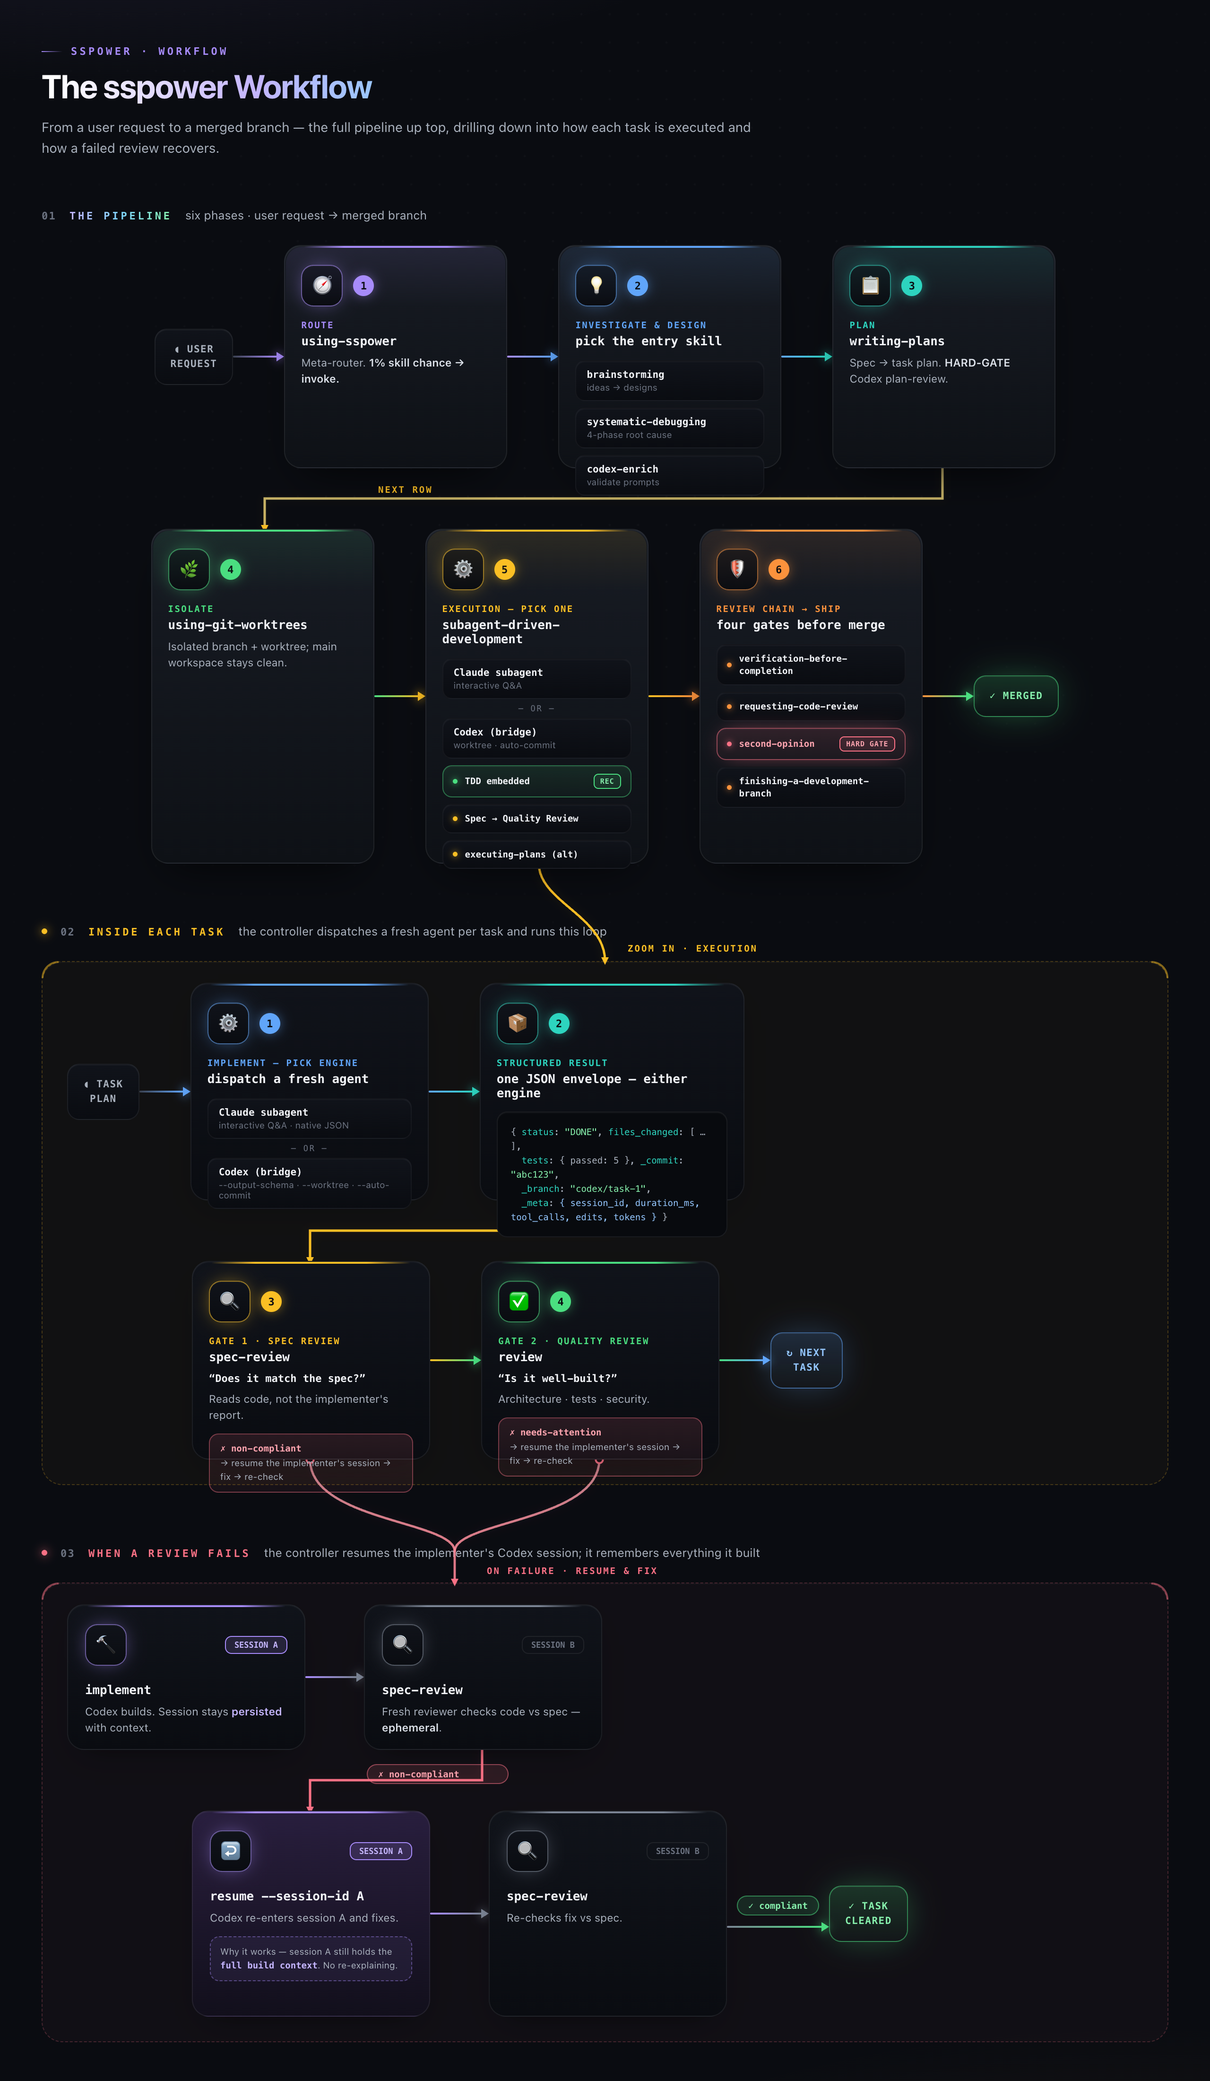
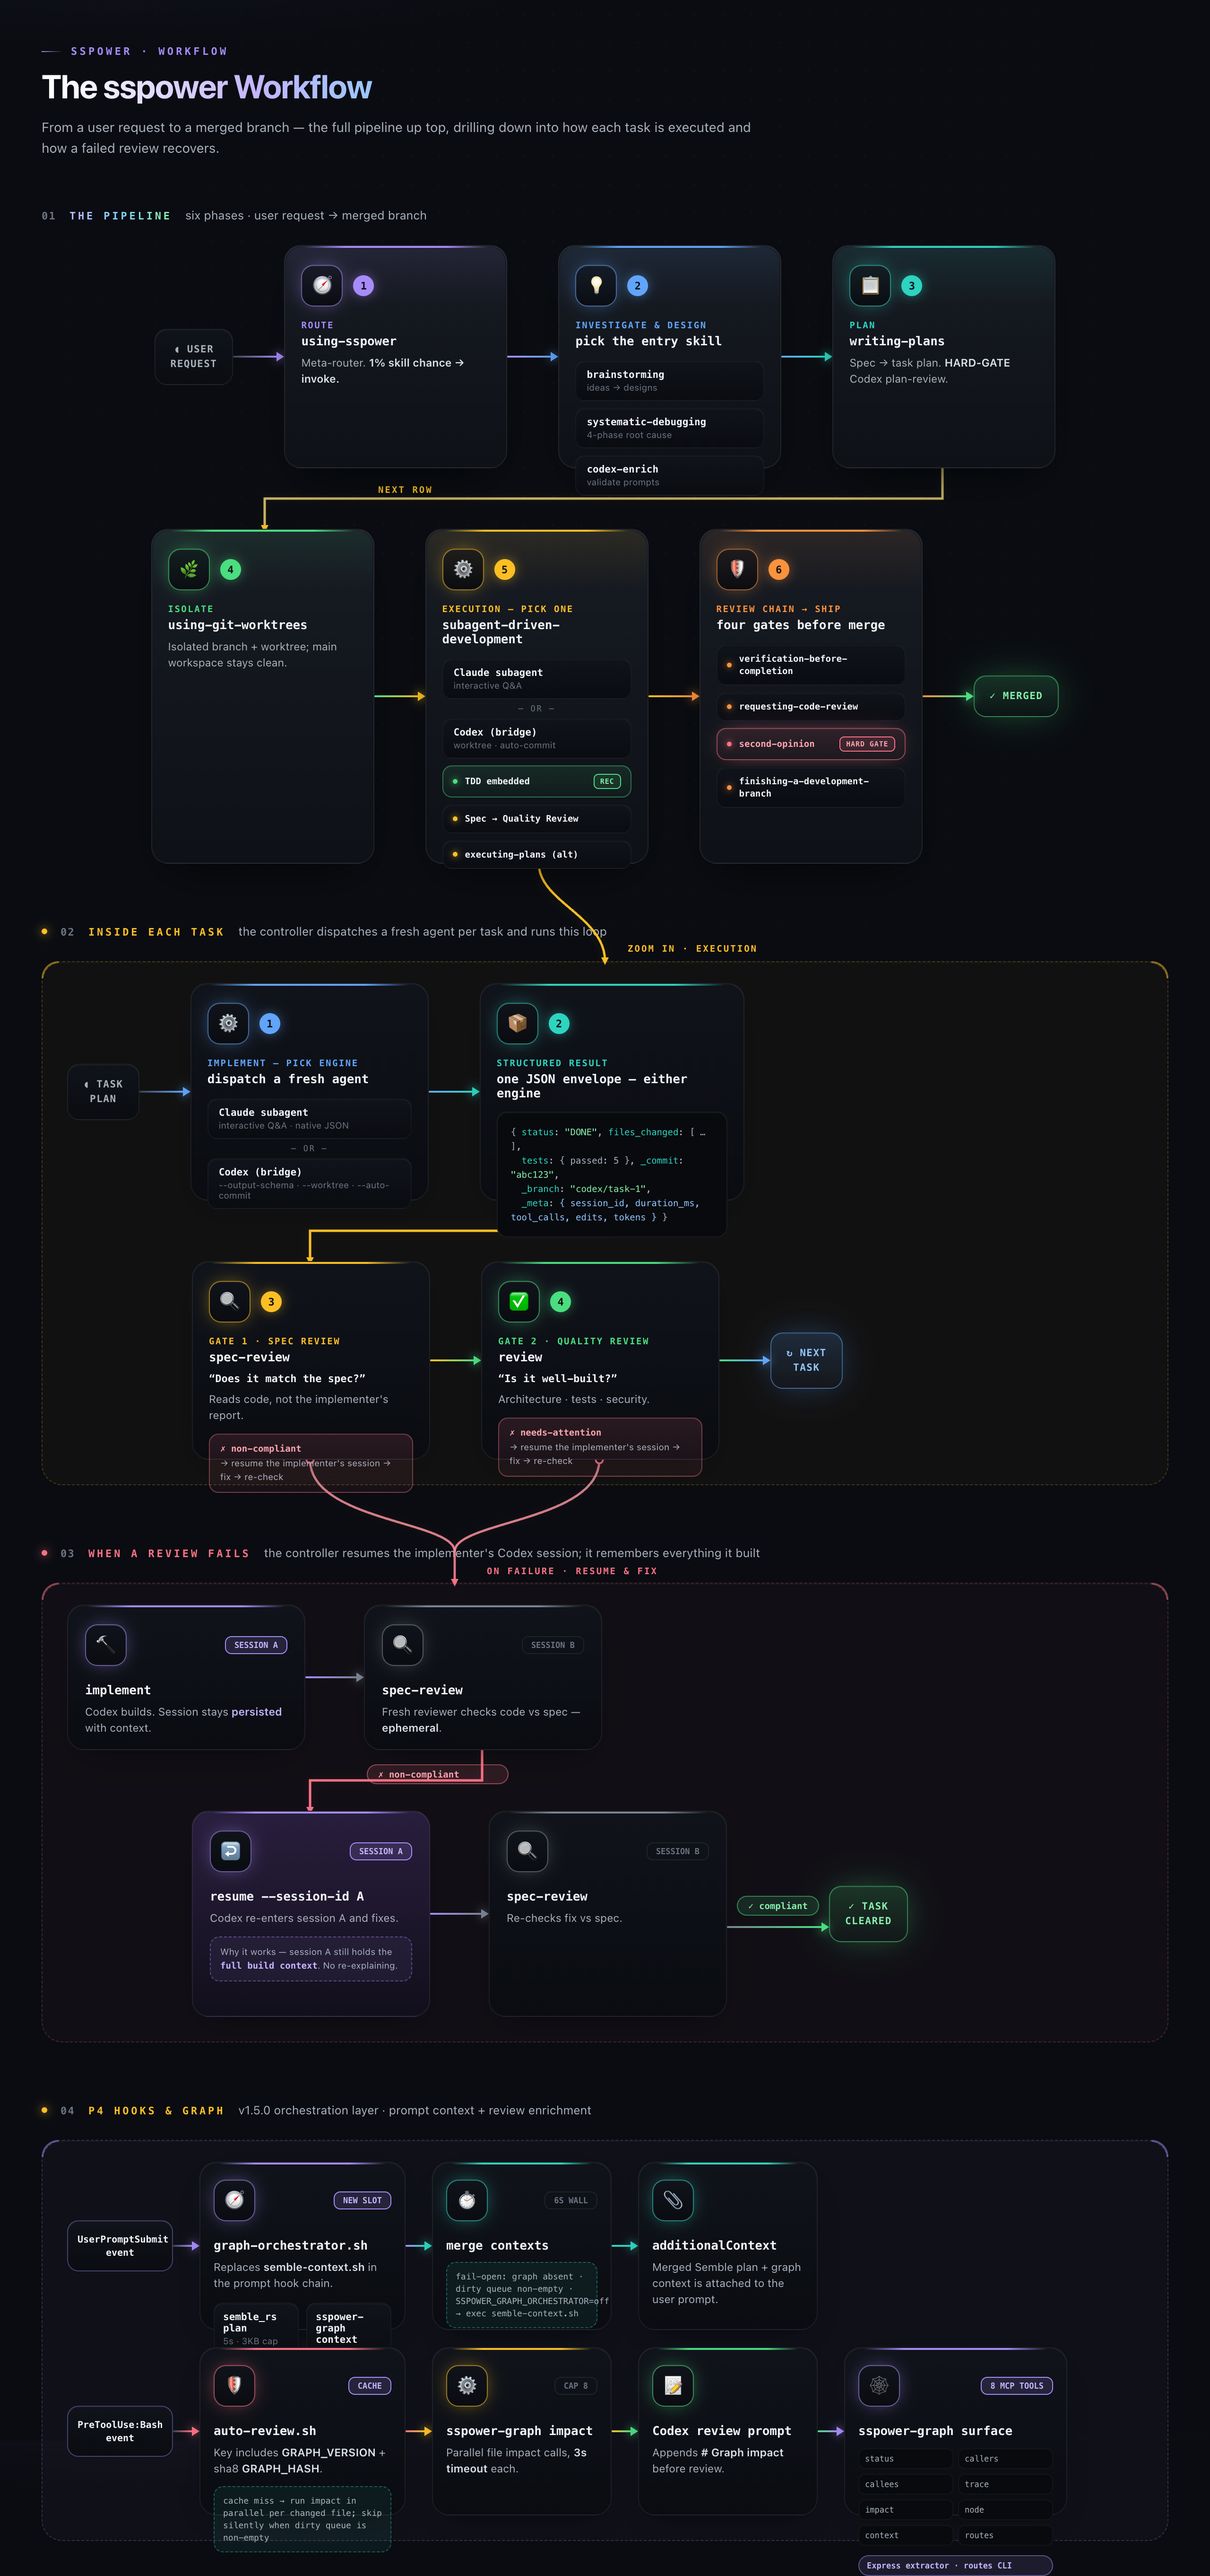
docs(graph-p4): update flow diagram with P4 hooks orchestration (#5)
Adds a new "04 P4 HOOKS & GRAPH" section to docs/diagrams/flow.html:
- UserPromptSubmit slot: graph-orchestrator.sh forks semble_rs plan
  (5s, 3KB cap) + sspower-graph context (5s, 2KB cap) under a 6s
  wall budget; fail-open exec semble-context.sh on graph absent /
  dirty queue / SSPOWER_GRAPH_ORCHESTRATOR=off
- PreToolUse:Bash: auto-review.sh cache key includes GRAPH_VERSION
  + sha8(index.sqlite); cache-miss runs parallel sspower-graph
  impact (cap 8, 3s each, skip-if-dirty); enriched Codex review
  prompt
- 8 MCP tools tally: status / callers / callees / trace / impact /
  node / context / routes
- Express extractor + routes CLI badge

Re-rendered docs/assets/flow.png via headless chrome at 1280px
viewport (2560x5446 at 2x retina; was 2560x4400 pre-P4).

flow.pdf left unchanged (low value; can be regenerated on demand
from the HTML source).

diff --git a/docs/diagrams/flow.html b/docs/diagrams/flow.html
@@ -21,6 +21,7 @@
     --c-impl:#60a5fa; --c-json:#2dd4bf; --c-spec:#fbbf24; --c-qual:#4ade80;
     /* ---- fix loop ---- */
     --c-a:#a78bfa; --c-b:#7b8494; --c-bad:#fb7185; --c-good:#4ade80;
+    --cc:var(--c-route); --from:#3a4150; --to:#3a4150;
     --mono:"SF Mono",ui-monospace,SFMono-Regular,Menlo,Consolas,monospace;
     /* ---- spacing scale (4/8 grid) ---- */
     --s2:8px; --s3:16px; --s4:24px; --s5:32px; --s6:48px; --s7:64px;
@@ -47,7 +48,7 @@
   /* ============ FIXED CANVAS — connectors anchor to this ============ */
   .canvas{
     position:relative; z-index:1;
-    width:1280px; height:2200px; margin:0 auto;
+    width:1280px; height:2580px; margin:0 auto;
     padding:48px 44px 56px;
   }
   /* SVG connector layer — sits above surfaces, below text-bearing nodes */
@@ -123,6 +124,8 @@
   .track.fix-top{height:154px}
   .track.fix-bottom{justify-content:flex-start; margin-left:132px}
   .track.fix-bottom{height:218px}
+  .track.hooks-row{height:178px; align-items:stretch}
+  .track.hooks-row + .track.hooks-row{margin-top:18px}
 
   /* --- start / end caps --- */
   .cap{
@@ -271,6 +274,10 @@
     border-color:rgba(251,113,133,.22);
     background:rgba(251,113,133,.026);
   }
+  .panel.hooks{
+    border-color:rgba(167,139,250,.24);
+    background:rgba(167,139,250,.026);
+  }
   /* corner accent tick to read as a "zoom frame" */
   .panel::before, .panel::after{
     content:""; position:absolute; width:16px; height:16px; pointer-events:none;
@@ -287,6 +294,8 @@
   }
   .panel.fix::before{border-color:rgba(251,113,133,.5)}
   .panel.fix::after{border-color:rgba(251,113,133,.5)}
+  .panel.hooks::before{border-color:rgba(167,139,250,.5)}
+  .panel.hooks::after{border-color:rgba(167,139,250,.5)}
 
   /* detail-tier cards: visually quieter than the primary pipeline */
   .panel .ph{
@@ -325,6 +334,40 @@
   .panel.fix .conn{ flex-direction:column; align-items:center; width:108px; gap:7px; }
   .panel.fix .conn .line{display:flex; align-items:center; width:100%}
   .panel.fix .conn.plain{width:62px}
+  .panel.hooks .ph{width:190px; padding:18px 14px 15px}
+  .panel.hooks .ph.wide{width:218px}
+  .panel.hooks .ph.graph{width:236px}
+  .panel.hooks .conn{width:28px}
+  .hook-event{
+    align-self:center; flex-shrink:0; width:112px;
+    font-family:var(--mono); font-size:10px; font-weight:700; line-height:1.42;
+    color:var(--tx); text-align:center; padding:12px 10px; border-radius:12px;
+    background:var(--surf-2); border:1px solid rgba(167,139,250,.38);
+    box-shadow:var(--el-0);
+  }
+  .fork{
+    display:grid; grid-template-columns:1fr 1fr; gap:8px; margin-top:12px;
+  }
+  .fork .chip{padding:8px 9px}
+  .merge-note{
+    margin-top:10px; font-family:var(--mono); font-size:9px; line-height:1.45;
+    color:var(--dim); border:1px dashed rgba(45,212,191,.36);
+    background:rgba(45,212,191,.07); border-radius:10px; padding:8px 9px;
+  }
+  .tool-list{
+    display:grid; grid-template-columns:repeat(2,1fr); gap:5px; margin-top:11px;
+  }
+  .tool-list span{
+    font-family:var(--mono); font-size:8.5px; color:var(--dim);
+    background:#080a0e; border:1px solid var(--line-soft); border-radius:7px;
+    padding:5px 6px; white-space:nowrap;
+  }
+  .mini-badge{
+    display:inline-flex; align-items:center; gap:5px; margin-top:10px;
+    font-family:var(--mono); font-size:8.5px; font-weight:700;
+    color:#c4b5fd; border:1px solid rgba(167,139,250,.46);
+    background:rgba(167,139,250,.12); border-radius:999px; padding:5px 8px;
+  }
   .vlabel{
     font-family:var(--mono); font-size:9.5px; font-weight:700;
     padding:4px 11px; border-radius:999px; border:1px solid; white-space:nowrap;
@@ -352,7 +395,7 @@
 
   /* ===================== single-page PDF export ===================== */
   @media print{
-    @page{ size:1280px 2200px; margin:0 }
+    @page{ size:1280px 2580px; margin:0 }
     html,body{ -webkit-print-color-adjust:exact; print-color-adjust:exact }
     body{ min-width:0 }
   }
@@ -363,7 +406,7 @@
   <div class="canvas">
 
     <!-- ===== SVG connector layer: drill-down "zoom" curves ===== -->
-    <svg class="links" viewBox="0 0 1280 2200" preserveAspectRatio="none" aria-hidden="true">
+    <svg class="links" viewBox="0 0 1280 2580" preserveAspectRatio="none" aria-hidden="true">
       <defs>
         <!-- userSpaceOnUse: gradient maps to absolute canvas y so every path
              segment shares one consistent fade, regardless of its bbox -->
@@ -642,6 +685,88 @@
 
           <div class="cap end">✓&nbsp;TASK<br>CLEARED</div>
 
+        </div>
+      </div>
+    </div>
+
+    <!-- ===================== TIER 4 — P4 HOOK ORCHESTRATION ===================== -->
+    <div class="stage">
+      <div class="tier-label detail">
+        <span class="pill"></span>
+        <span class="idx">04</span>
+        <span class="tag">P4 Hooks &amp; Graph</span>
+        <span class="desc">v1.5.0 orchestration layer · prompt context + review enrichment</span>
+      </div>
+
+      <div class="panel hooks">
+        <div class="track hooks-row">
+
+          <div class="hook-event">UserPromptSubmit<br>event</div>
+          <div class="conn" style="--from:#3a4150;--to:var(--c-route)"><i></i><b></b></div>
+
+          <div id="hook-1" class="ph wide" style="--cc:var(--c-route)">
+            <div class="bar"><div class="badge">🧭</div><span class="sess a">NEW SLOT</span></div>
+            <div class="nm">graph-orchestrator.sh</div>
+            <div class="ds">Replaces <b>semble-context.sh</b> in the prompt hook chain.</div>
+            <div class="fork">
+              <div class="chip"><div class="cn">semble_rs plan</div><div class="cd">5s · 3KB cap</div></div>
+              <div class="chip"><div class="cn">sspower-graph context</div><div class="cd">5s · 2KB cap</div></div>
+            </div>
+          </div>
+          <div class="conn" style="--from:var(--c-route);--to:var(--c-plan)"><i></i><b></b></div>
+
+          <div id="hook-2" class="ph" style="--cc:var(--c-plan)">
+            <div class="bar"><div class="badge">⏱</div><span class="sess b">6S WALL</span></div>
+            <div class="nm">merge contexts</div>
+            <div class="merge-note">fail-open: graph absent · dirty queue non-empty · SSPOWER_GRAPH_ORCHESTRATOR=off → exec semble-context.sh</div>
+          </div>
+          <div class="conn" style="--from:var(--c-plan);--to:var(--c-json)"><i></i><b></b></div>
+
+          <div id="hook-3" class="ph" style="--cc:var(--c-json)">
+            <div class="bar"><div class="badge">📎</div></div>
+            <div class="nm">additionalContext</div>
+            <div class="ds">Merged Semble plan + graph context is attached to the user prompt.</div>
+          </div>
+        </div>
+
+        <div class="track hooks-row">
+
+          <div class="hook-event">PreToolUse:Bash<br>event</div>
+          <div class="conn" style="--from:#3a4150;--to:var(--c-gate)"><i></i><b></b></div>
+
+          <div id="hook-4" class="ph wide" style="--cc:var(--c-gate)">
+            <div class="bar"><div class="badge">🛡</div><span class="sess a">CACHE</span></div>
+            <div class="nm">auto-review.sh</div>
+            <div class="ds">Key includes <b>GRAPH_VERSION</b> + sha8 <b>GRAPH_HASH</b>.</div>
+            <div class="merge-note">cache miss → run impact in parallel per changed file; skip silently when dirty queue is non-empty</div>
+          </div>
+          <div class="conn" style="--from:var(--c-gate);--to:var(--c-build)"><i></i><b></b></div>
+
+          <div id="hook-5" class="ph" style="--cc:var(--c-build)">
+            <div class="bar"><div class="badge">⚙</div><span class="sess b">CAP 8</span></div>
+            <div class="nm">sspower-graph impact</div>
+            <div class="ds">Parallel file impact calls, <b>3s timeout</b> each.</div>
+          </div>
+          <div class="conn" style="--from:var(--c-build);--to:var(--c-qual)"><i></i><b></b></div>
+
+          <div id="hook-6" class="ph" style="--cc:var(--c-qual)">
+            <div class="bar"><div class="badge">📝</div></div>
+            <div class="nm">Codex review prompt</div>
+            <div class="ds">Appends <b># Graph impact</b> before review.</div>
+          </div>
+          <div class="conn" style="--from:var(--c-qual);--to:var(--c-route)"><i></i><b></b></div>
+
+          <div id="hook-7" class="ph graph" style="--cc:var(--c-route)">
+            <div class="bar"><div class="badge">🕸</div><span class="sess a">8 MCP TOOLS</span></div>
+            <div class="nm">sspower-graph surface</div>
+            <div class="tool-list">
+              <span>status</span><span>callers</span>
+              <span>callees</span><span>trace</span>
+              <span>impact</span><span>node</span>
+              <span>context</span><span>routes</span>
+            </div>
+            <div class="mini-badge">Express extractor · routes CLI</div>
+          </div>
         </div>
       </div>
     </div>
